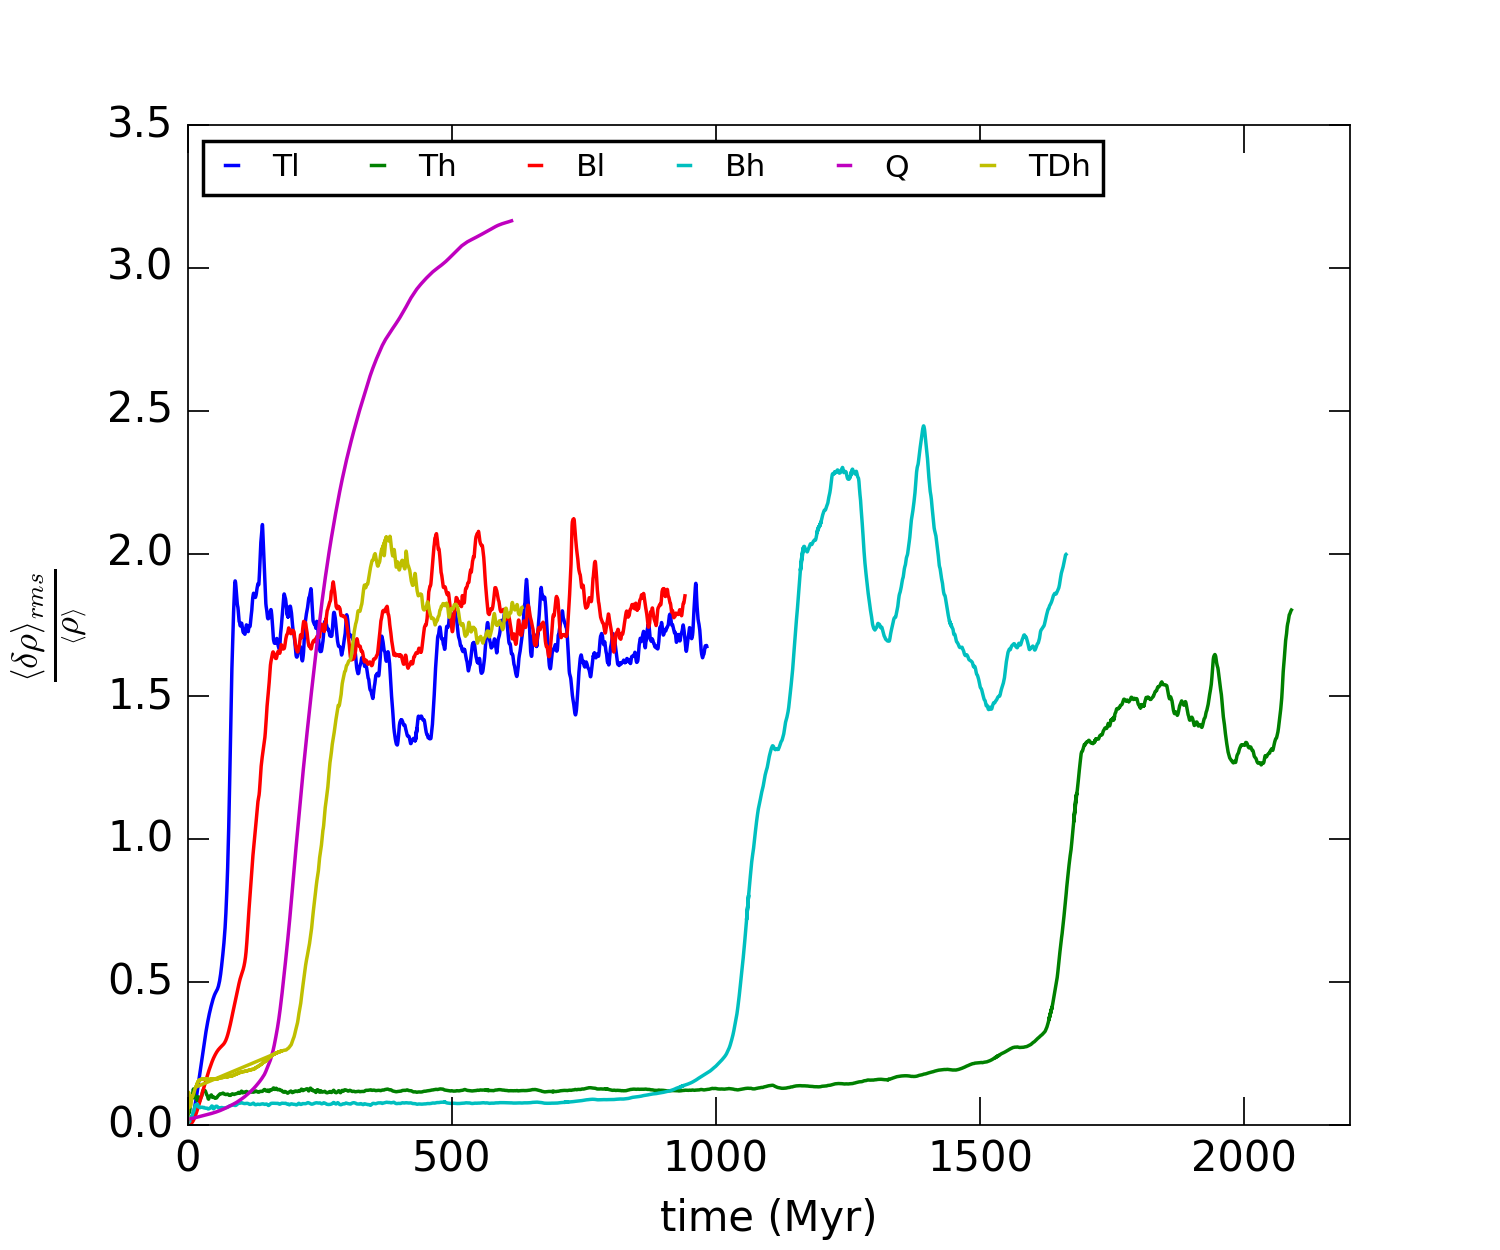
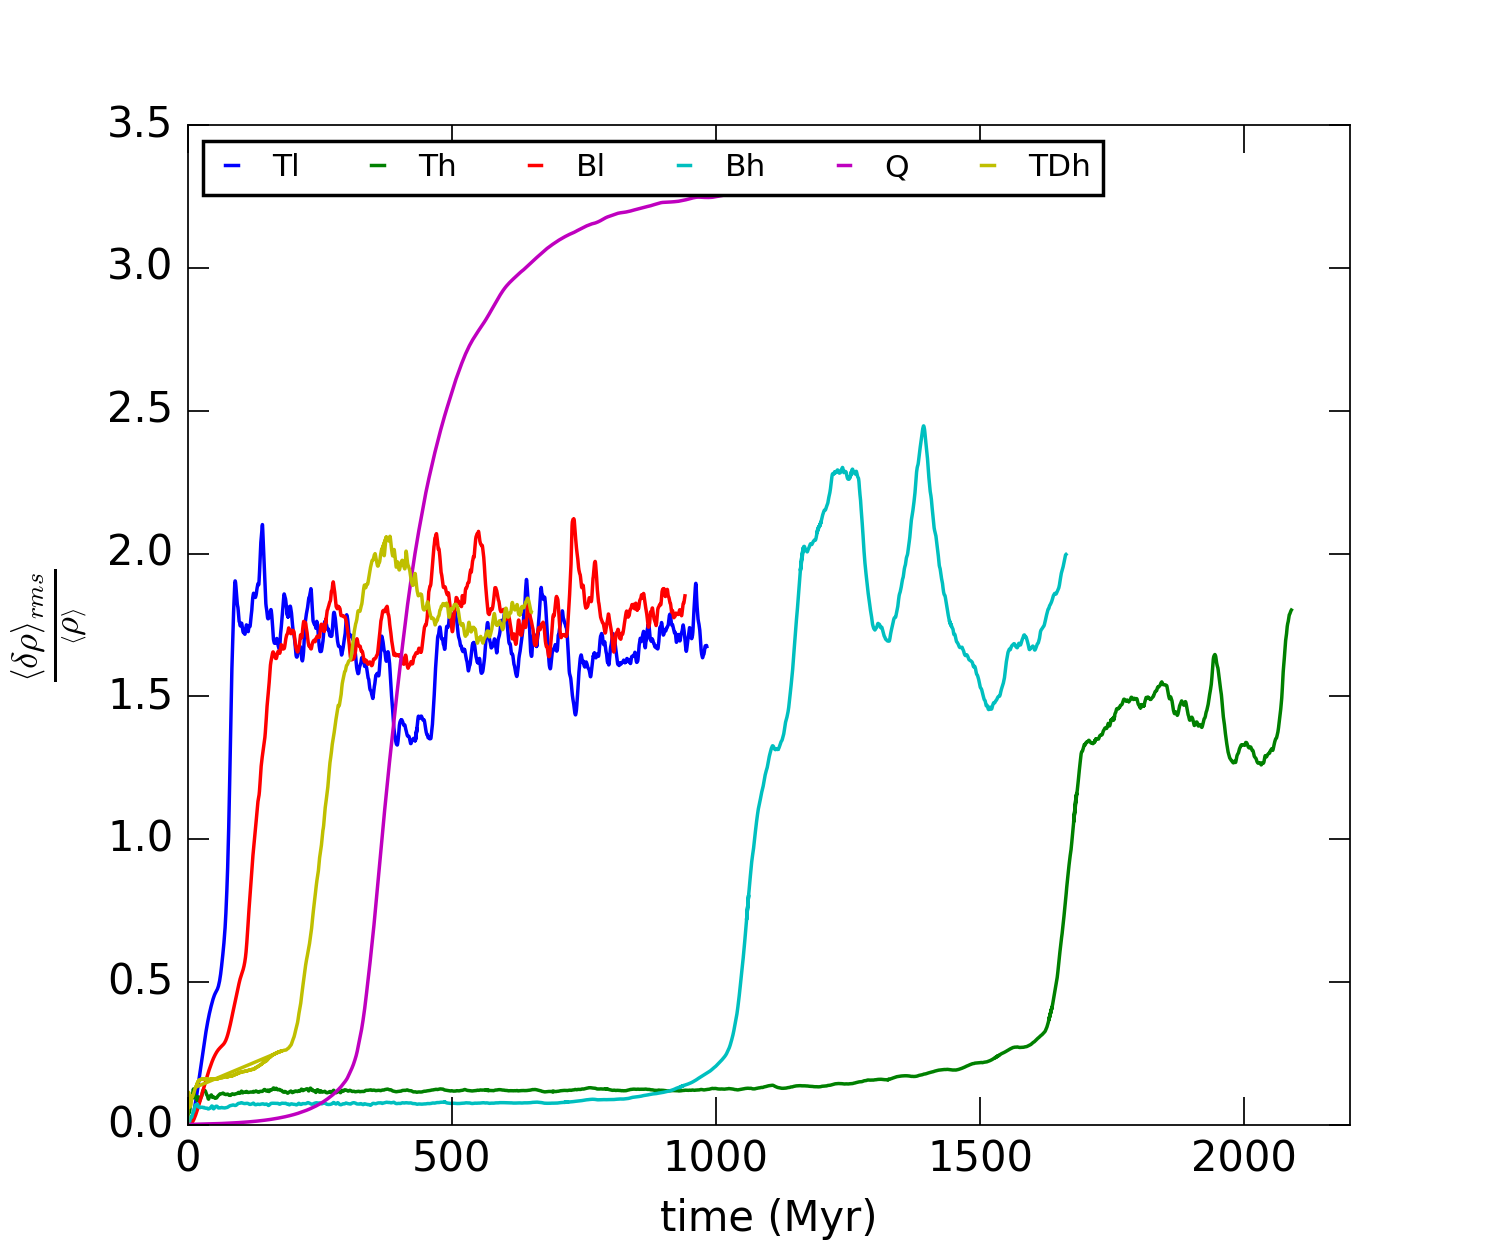
Edited del-rho plot

diff --git a/del-rho-plots/density_perturb.py b/del-rho-plots/density_perturb.py
@@ -23,7 +23,7 @@ UNIT_TIME=UNIT_LENGTH/UNIT_VELOCITY/(3.15e13)
 
 no_files=6
 #Load data files
-wdir=('tabulated_cooling/256/k0-2/', 'tabulated_cooling/256/k12/', 'thermal_heating/256/tabulated_cooling/F5e-1/k0-2/', 'thermal_heating/256/tabulated_cooling/F5e-1/k12/', 'no_turb/2e-2/', 'turb_perturb/DkHC2e-2/')
+wdir=('tabulated_cooling/256/k0-2/', 'tabulated_cooling/256/k12/', 'thermal_heating/256/tabulated_cooling/F5e-1/k0-2/', 'thermal_heating/256/tabulated_cooling/F5e-1/k12/', 'no_turb/2e-3/', 'turb_perturb/DkHC2e-3/')
 
 labels=('Tl', 'Th', 'Bl', 'Bh', 'Q', 'TDh')
 
